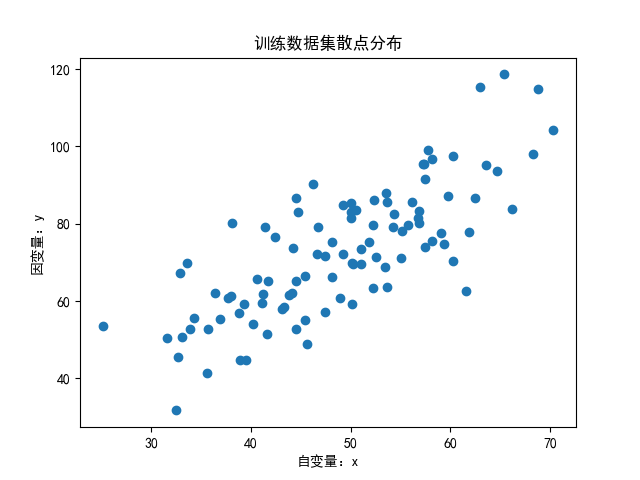
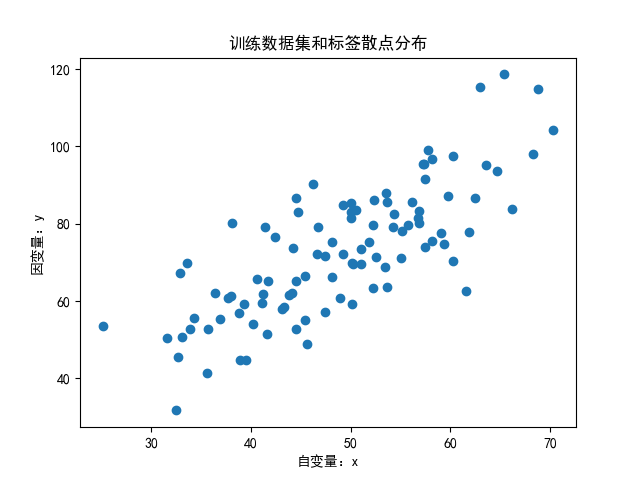
新增逻辑回归代码

Changed region(s): [[0.3438, 0.0625, 0.6875, 0.125]]

diff --git a/samples_nn/logistic_regression(2).py b/samples_nn/logistic_regression(2).py
@@ -1,0 +1,131 @@
+import matplotlib.pyplot as plt
+import numpy as np
+from sklearn.metrics import classification_report
+from sklearn import preprocessing
+# 数据是否需要标准化
+scale = False
+
+# 画图正常显示中文
+plt.rcParams['font.sans-serif'] = ['SimHei']  # 用来正常显示中文标签
+plt.rcParams['axes.unicode_minus'] = False  # 用来正常显示负号
+
+def sigmoid(x):
+    return 1.0 / (1 + np.exp(-x))
+
+def cost(xMat, yMat, ws):
+    left = np.multiply(yMat, np.log(sigmoid(xMat * ws)))
+    right = np.multiply(1 - yMat, np.log(1 - sigmoid(xMat * ws)))
+    return np.sum(left + right) / -(len(xMat))
+
+def gradAscent(xArr, yArr):
+    if scale == True:
+        xArr = preprocessing.scale(xArr)
+    xMat = np.mat(xArr)
+    yMat = np.mat(yArr)
+    # 学习率
+    lr = 0.001
+    # 迭代次数
+    epochs = 10000
+    # 申明一个列表用来存储loss
+    costList = []
+    # 计算数据行列数
+    # 行代表数据个数，列代表权值个数
+    m, n = np.shape(xMat)
+    # 初始化权值
+    ws = np.mat(np.ones((n, 1)))
+
+    for i in range(epochs + 1):
+        # xMat和weights矩阵相乘
+        h = sigmoid(xMat * ws)
+        # 计算误差
+        ws_grad = xMat.T * (h - yMat) / m
+        ws = ws - lr * ws_grad
+
+        if i % 50 == 0:
+            costList.append(cost(xMat, yMat, ws))
+    return ws, costList
+
+def plot(x_data, y_data):
+    x0 = []
+    x1 = []
+    y0 = []
+    y1 = []
+    # 切分不同类别的数据
+    for i in range(len(x_data)):
+        if y_data[i] == 0:
+            x0.append(x_data[i, 0])
+            y0.append(x_data[i, 1])
+        else:
+            x1.append(x_data[i, 0])
+            y1.append(x_data[i, 1])
+
+    # 画图
+    scatter0 = plt.scatter(x0, y0, c='b', marker='o')
+    scatter1 = plt.scatter(x1, y1, c='r', marker='x')
+    # 画图例
+    plt.title("训练数据集散点分布")
+    plt.xlabel("自变量：x0")
+    plt.ylabel("自变量：x1")
+    plt.legend(handles=[scatter0, scatter1], labels=['label0', 'label1'], loc='best')
+    plt.savefig("LR_scatter.png")
+    # plt.show()
+
+def plot_result(ws,x_data,y_data):
+    # 画图决策边界
+    plot(x_data,y_data)
+    x_test = [[-4],[3]]
+    y_test = (-ws[0] - x_test*ws[1])/ws[2]
+    plt.plot(x_test, y_test, 'k')
+    plt.savefig("LR_result.png")
+    plt.show()
+
+def plot_loss(costList):
+    # 画图 loss值的变化
+    x = np.linspace(0, 10000, 201)
+    plt.plot(x, costList, c='r')
+    plt.title('Train')
+    plt.xlabel('Epochs')
+    plt.ylabel('Cost')
+    plt.savefig("LR_Loss.png")
+    plt.show()
+
+# 预测
+def predict(x_data, ws):
+    if scale == True:
+        x_data = preprocessing.scale(x_data)
+    xMat = np.mat(x_data)
+    ws = np.mat(ws)
+    return [1 if x >= 0.5 else 0 for x in sigmoid(xMat*ws)]
+
+def train():
+    # 载入数据
+    data = np.genfromtxt("LR-testSet.csv", delimiter=",")
+    x_data = data[:, :-1]
+    y_data = data[:, -1]
+    # 绘制散点图
+    plot(x_data, y_data)
+    # 数据处理，添加偏置项
+    x_data = data[:, :-1]
+    y_data = data[:, -1, np.newaxis]
+    print("x_data的数据形状为：", np.mat(x_data).shape)
+    print("y_data的数据形状为：", np.mat(y_data).shape)
+    # 给样本添加偏置项
+    X_data = np.concatenate((np.ones((100, 1)), x_data), axis=1)
+    print("x_data添加偏执后X_data的数据形状为：", X_data.shape)
+
+    # 训练模型，得到权值和cost值的变化
+    ws, costList = gradAscent(X_data, y_data)
+    print("训练后得到的权值列表为：", ws)
+
+    print("保存决策边界结果图像")
+    plot_result(ws, x_data, y_data)
+
+    predictions = predict(X_data, ws)
+    print(classification_report(y_data, predictions))
+    print("保存loss下降结果……")
+    plot_loss(costList)
+
+if __name__ == '__main__':
+    train()
+
+

diff --git a/samples_nn/linear_regression(1).py b/samples_nn/linear_regression(1).py
@@ -45,7 +45,7 @@ def plot_scatter(data):
     x_data = data[:, 0]
     y_data = data[:, 1]
     plt.scatter(x_data, y_data)
-    plt.title("训练数据集散点分布")
+    plt.title("训练数据集和标签散点分布")
     plt.xlabel("自变量：x")
     plt.ylabel("因变量：y")
     plt.savefig("scatter.png")
